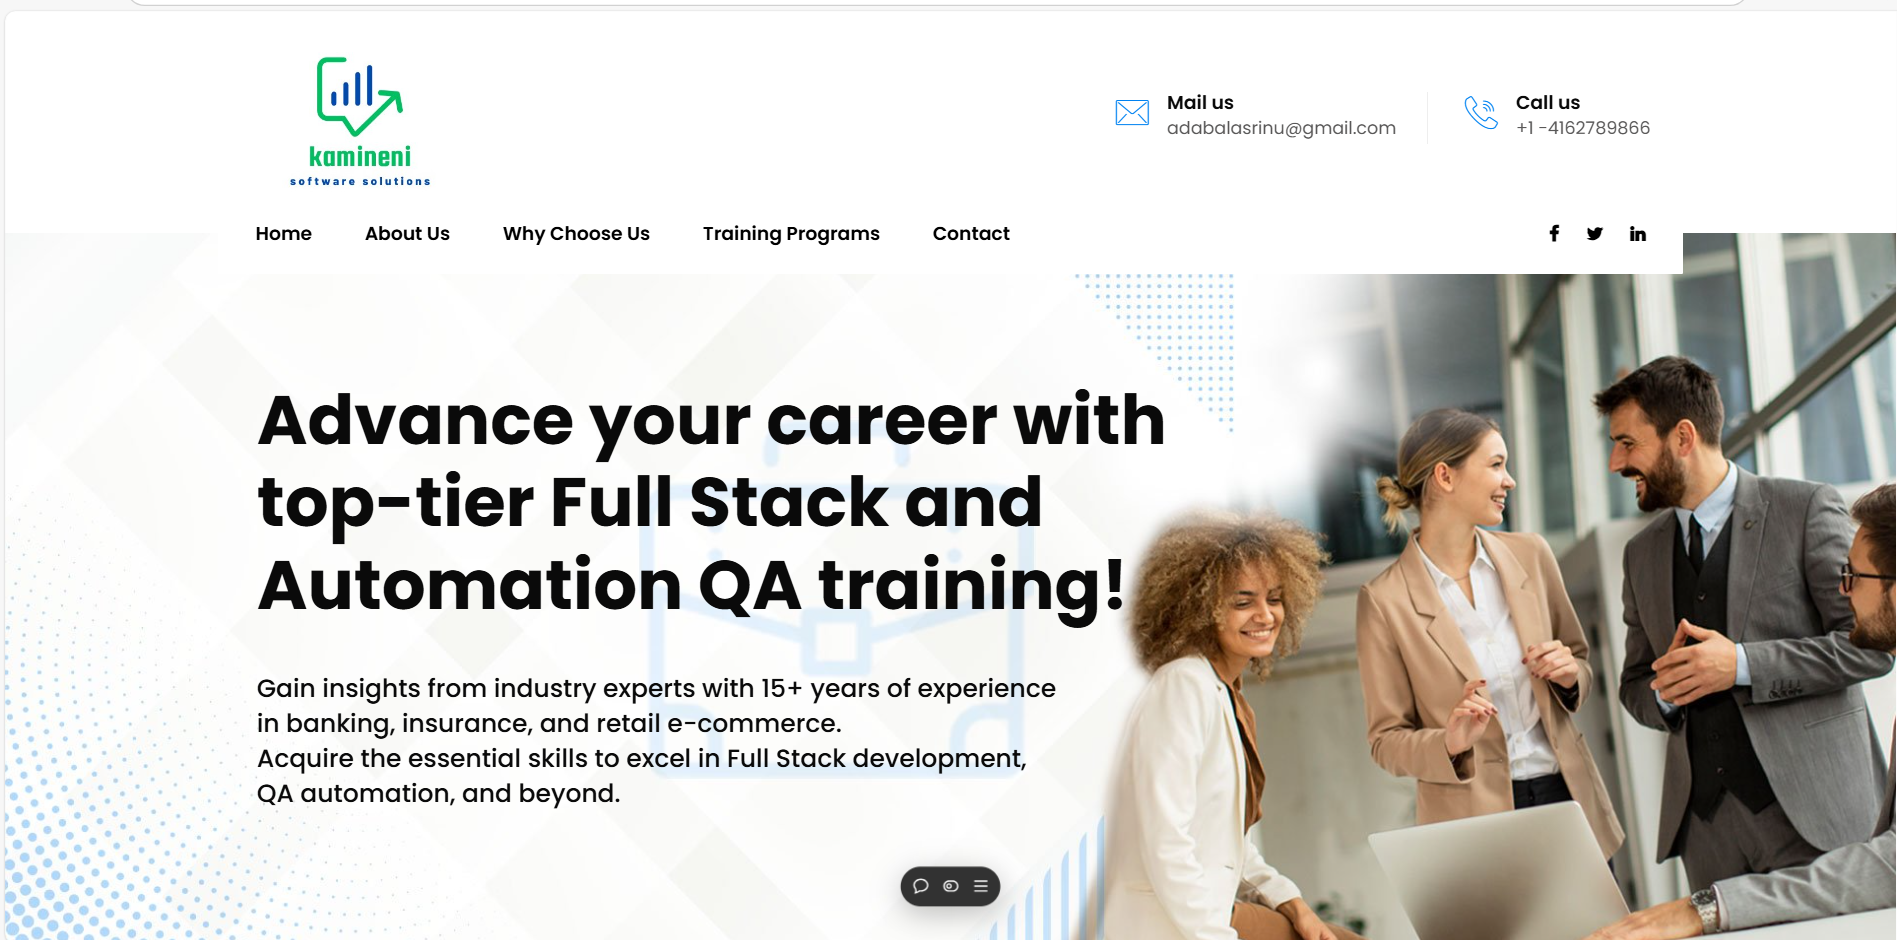
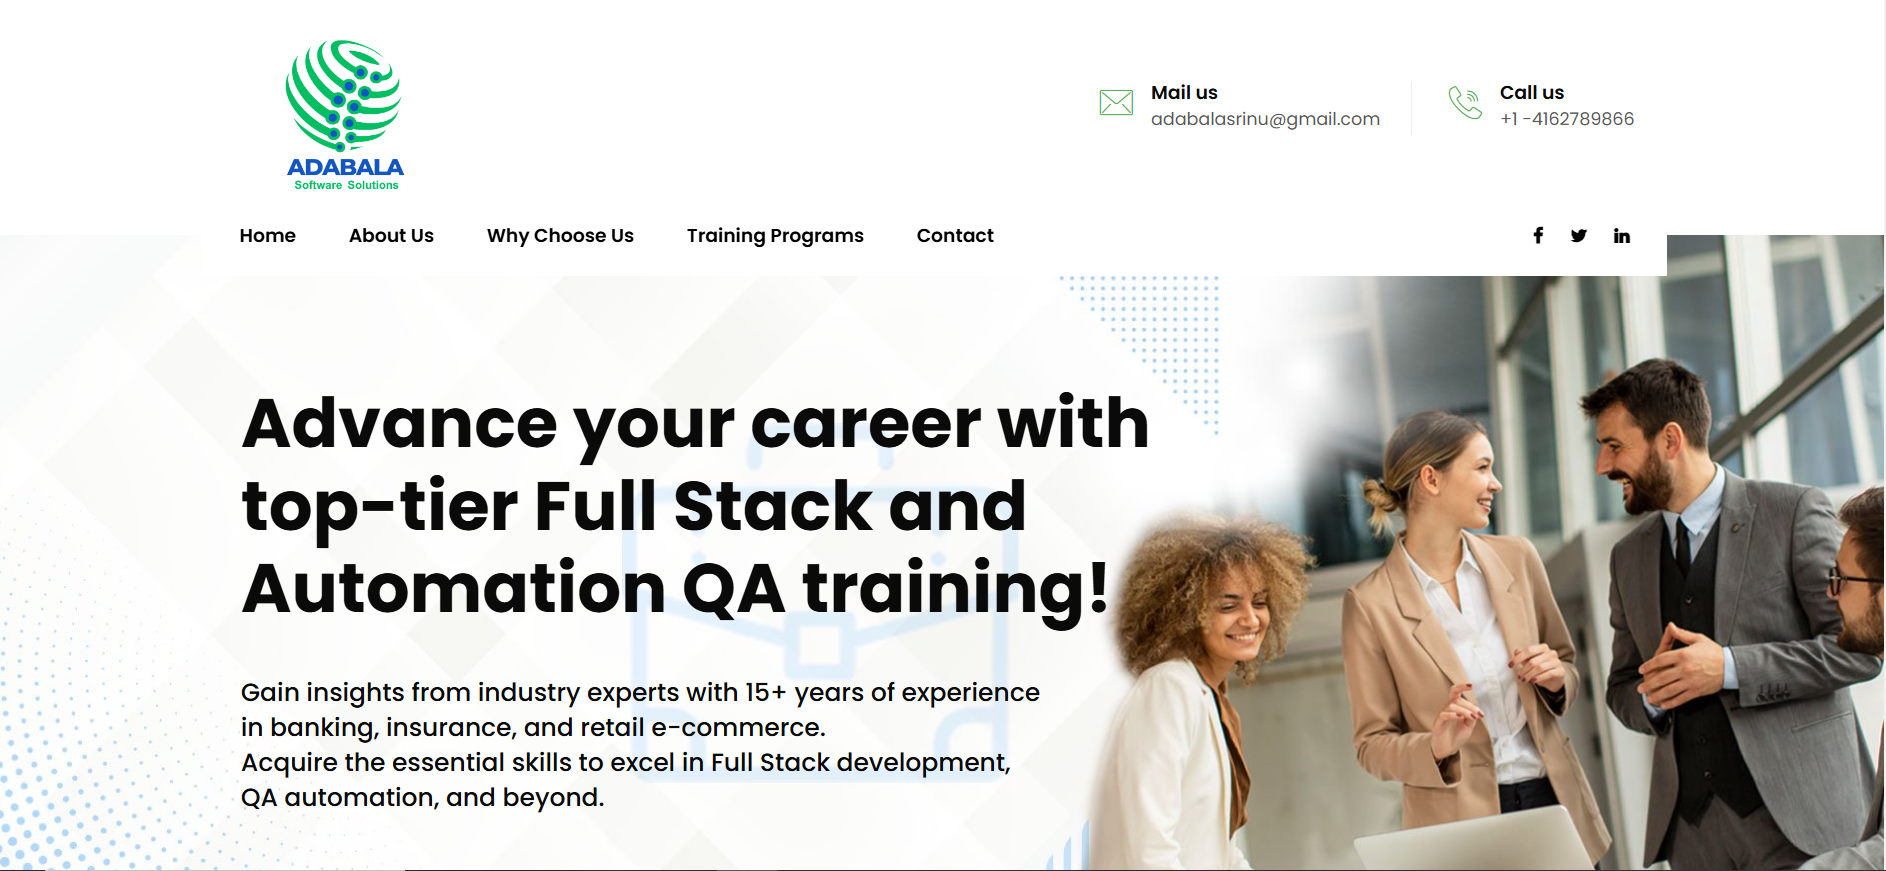
Education

diff --git a/src/Components/Education/education.js b/src/Components/Education/education.js
@@ -1,0 +1,46 @@
+import React from 'react';
+import './education.css';
+import NSMVPS from '../../Assets/NSMVPS.png';
+import Alagappa from '../../Assets/Alagappa_Logo.png';
+import Jspiders from '../../Assets/jspiders_logo.jpeg';
+
+const education = () => {
+  return (
+    <section id='education'>
+        <span className="educationTitle">Education</span>
+        <spn className="educationDesc"> In my educational expedition, I've journeyed through a realm of <br /> self-exploration and continuous personal evolution. Here, I present <br /> the intricacies of my educational background.
+        </spn>
+        <div className="educationBars">
+            <div className="educationBar">
+                <img src={Jspiders} alt="Jspiders" className="educationBarImg" />
+                <div className="educationBarText">
+                    <h2>Jspider Software training institute</h2>
+                    <p>Full Stack Developement Course</p>
+                    <p>October 2022 - July 2023 | Full stack developer certificate</p>
+                    <p>Successfully obtained a Bachelor of Technology degree specializing in Information Technology from Jspiders Training Institute from Bangalore.</p>
+                </div>
+            </div>
+            <div className="educationBar">
+                <img src={Alagappa} alt="Alagappa" className="educationBarImg" />
+                <div className="educationBarText">
+                    <h2>Alagappa University</h2>
+                    <p>Bachelor Of Science - Physics</p>
+                    <p>June 2019 - June 2022 | Grade:7.1</p>
+                    <p>I completed my college education at Alagappa Arts and Science college from Karaikudi.</p>
+                </div>
+            </div>
+            <div className="educationBar">
+                <img src={NSMVPS} alt="NSMVPS" className="educationBarImg" />
+                <div className="educationBarText">
+                    <h2>Nsmvps Higher Secondary School</h2>
+                    <p>Xll</p>
+                    <p>June 2018 - April 2019 | Grade:6.4</p>
+                    <p>I completed my school education at Nsmvps higher secondary school from Devakottai.</p>
+                </div>
+            </div>
+        </div>
+        </section>
+  )
+}
+
+export default education;

diff --git a/src/Components/Education/education.css b/src/Components/Education/education.css
@@ -1,0 +1,76 @@
+#education{
+    overflow: hidden;
+    width: 100vw;
+    max-width: 65rem;
+    display: flex;
+    flex-direction: column;
+    align-items: center;
+    justify-content: center;
+    text-align: center;
+    margin: 0 auto;
+    /* color: black; */
+}
+
+.educationTitle{
+    font-size: 3rem;
+    font-weight: 600;
+    padding-top: 3rem;
+    margin-bottom: 1.5rem;
+}
+.educationDesc{
+    font-weight: 400;
+    font-size: 1rem;
+    max-width: 50rem;
+    padding: 0 2rem;
+
+}
+
+.educationBars{
+    margin: 1.5rem;
+    width: 100vw;
+    max-width: 80%;
+    text-align: left;
+    color: black;
+
+}
+
+.educationBar{
+    display: flex;
+    margin: 1rem;
+    padding: 1.5rem 2rem;
+    border-radius: 0.5rem;
+    /* background: rgb(50,50,50); */
+    background: white;
+}
+
+.educationBarImg{
+    object-fit: cover;
+    height: 3rem;
+    width: 3rem;
+    margin-right: 2rem;
+}
+.educationBarText > p {
+    margin: 0.2rem;
+    font-size: 0.9rem;
+    font-weight: 200;   
+}
+
+@media screen and (max-width:720px) {
+    .educationBarText>p {
+        font-size: 2vw;
+    }
+    
+}
+
+@media screen and (max-width:480px) {
+    .educationBarText>p {
+        font-size: 3vw;
+    }
+    .educationBarImg{
+        height: 2.25rem;
+        width: 2.25rem;
+    }
+    .educationBarText>h2{
+        font-size: 5vw;
+    }
+}

diff --git a/src/Components/NavBar/navbar.js b/src/Components/NavBar/navbar.js
@@ -1,6 +1,6 @@
 import React from 'react'
 import './navbar.css';
-import logo from '../../Assets/logo.jpg'
+import logo from '../../Assets/Portfoliologo.jpg'
 import { Link } from 'react-scroll';
 import contactImg  from '../../Assets/contact.png'
 const navbar = () => {
@@ -11,7 +11,7 @@ const navbar = () => {
        <Link className="DeskTopMenuListItem">Home</Link>
        <Link className="DeskTopMenuListItem">About</Link>
        <Link className="DeskTopMenuListItem">Projects</Link>
-       <Link className="DeskTopMenuListItem">Clients</Link>
+       <Link className="DeskTopMenuListItem">Education</Link>
      </div>
      <button className="deskTopMenuBtn">
         <img src={contactImg} alt="logo" className="deskTopMenuImg" />Contact Me</button>

diff --git a/src/App.js b/src/App.js
@@ -2,6 +2,7 @@ import Intro from "./Components/NavBar/Intro/intro";
 import NavBar from "./Components/NavBar/navbar";
 import Skills from "./Components/NavBar/Skills/skills";
 import Projects from "./Components/Projects/project";
+import Education from "./Components/Education/education";
 function App() {
   return (
     <div className="App">
@@ -9,6 +10,7 @@ function App() {
     <Intro/>
     <Skills/>
     <Projects/>
+    <Education/>
     </div>
   );
 }

diff --git a/src/Components/NavBar/navbar.css b/src/Components/NavBar/navbar.css
@@ -1,5 +1,6 @@
 .navbar{
-    background: rgb(30, 30, 30);
+    /* background: rgb(30, 30, 30); */
+    background: black;
     height: 5rem;
     width: 100vw;
     max-width: 75rem;
@@ -14,8 +15,8 @@
 }
 .logo{
     object-fit: cover;
-    height: 3rem;
-    width: 4rem;
+    height: 5rem;
+    width: 6rem;
     border-radius: 2rem;
 
 }

diff --git a/src/Components/NavBar/Intro/intro.js b/src/Components/NavBar/Intro/intro.js
@@ -1,6 +1,6 @@
 import React from 'react';
 import './intro.css';
-import bg from '../../../Assets/MyImg4.jpg';
+import bg from '../../../Assets/HeroImg.jpg';
 import btnImg from '../../../Assets/hireme.png'
 import { Link } from 'react-scroll';
 

diff --git a/src/Components/NavBar/Intro/intro.css b/src/Components/NavBar/Intro/intro.css
@@ -10,12 +10,11 @@
 
 .bg{
     position: absolute;
-    z-index: -1;
+    z-index: -10;
     top: 2rem;
     right: 0;
     object-fit: cover;
-    height: 100vh;
-    border-radius: 1000px;
+    height: 90vh;
 }
 
 .introContent{

diff --git a/public/style.css b/public/style.css
@@ -9,7 +9,8 @@
 
 body
 {
-    background-color: rgb(30,30,30);
+    /* background-color: rgb(30,30,30); */
+    background: black;
     color: white;
     overflow: hidden;
     overflow-y: scroll;
